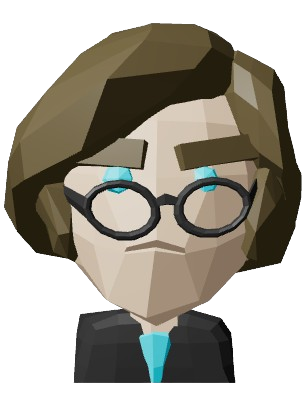
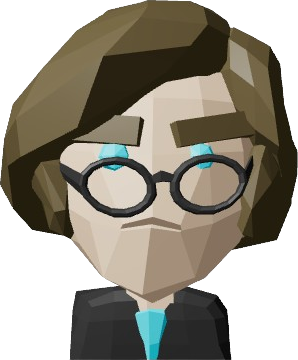
mobile image 2

Changed region(s): [[0.0, 0.0, 1.0, 1.0], [0.302, 0.55, 0.3322, 0.5806], [0.1208, 0.55, 0.151, 0.5806]]

diff --git a/src/dom/organ/stage/StartScreen.tsx b/src/dom/organ/stage/StartScreen.tsx
@@ -1,5 +1,5 @@
 "use client";
-
+import Image from 'next/image'
 import { Canvas } from "@react-three/fiber";
 import { MileiCharacterGroup } from "./MileiCharacterGroup";
 import { OrbitControls } from "@react-three/drei";
@@ -52,7 +52,7 @@ export const PointerFollowInit = () => {
         
         {!isReadyOnClient && <>
             <div className="pos-abs bottom-0">
-                <img src="img/mileidithumb.png" style={{transform:"translateY(20px)"}} />
+                <Image alt="milei" width={298} height={360} src="/img/mileidithumb.png" style={{transform:"translateY(20px)"}} />
             </div>
         </>}
         {!!isReadyOnClient && <>
